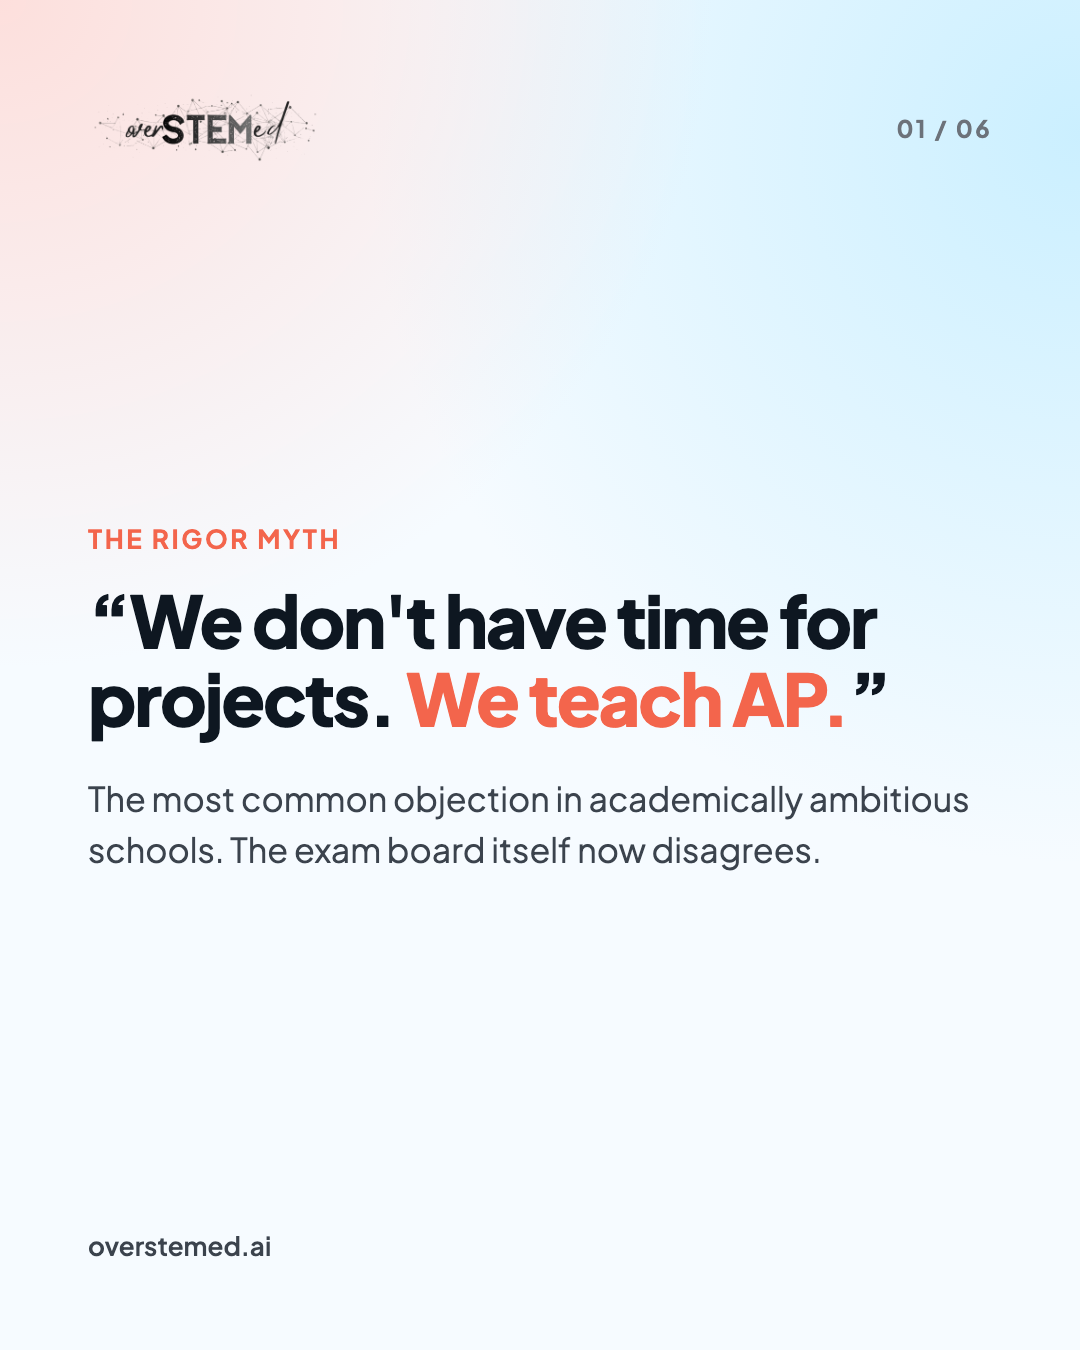
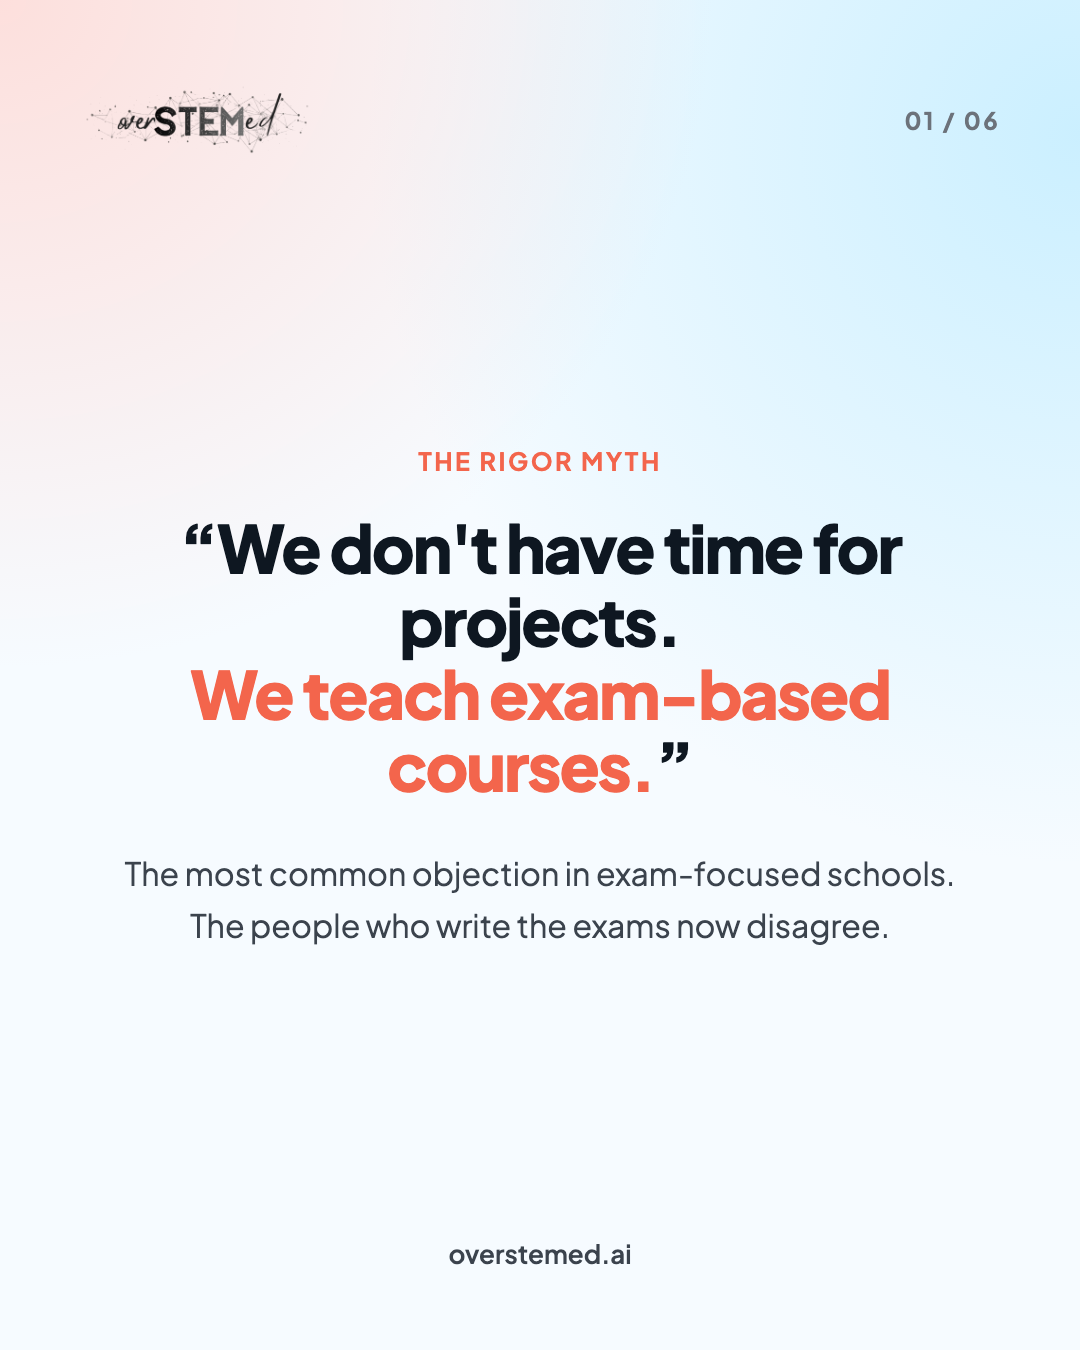
Rework PBL carousel per Michael's notes
Center-aligned and vertically centered, one sentence per line,
'exam-based courses' instead of AP in the opening quote so IB and
British schools see themselves, and Advanced Placement spelled out
before the abbreviation is used. Copy tightened so sentences do
not orphan single words.

diff --git a/post-templates.html b/post-templates.html
@@ -635,113 +635,115 @@ a{color:oklch(0.68 0.18 32);text-decoration:none;} a:hover{color:oklch(0.55 0.16
       </div>
     </div>
 
+
     <div class="tpl">
       <div class="tpl-label"><span>PBL rigor · Slide 01</span><button class="dl-btn" onclick="downloadCard(this)">PNG ↓</button></div>
       <div class="card" style="width:324px;height:405px;">
-        <div class="artboard" data-name="ig-pbl-01-1080x1350" style="width:1080px;height:1350px;transform:scale(0.3);transform-origin:top left;position:relative;overflow:hidden;background:radial-gradient(120% 90% at 0% 0%, oklch(0.92 0.06 25 / 0.75), transparent 55%),radial-gradient(110% 90% at 100% 10%, oklch(0.90 0.07 230 / 0.6), transparent 60%),oklch(0.985 0.008 250);display:flex;flex-direction:column;justify-content:space-between;padding:88px;box-sizing:border-box;">
+        <div class="artboard" data-name="ig-pbl-01-1080x1350" style="width:1080px;height:1350px;transform:scale(0.3);transform-origin:top left;position:relative;overflow:hidden;background:radial-gradient(120% 90% at 0% 0%, oklch(0.92 0.06 25 / 0.75), transparent 55%),radial-gradient(110% 90% at 100% 10%, oklch(0.90 0.07 230 / 0.6), transparent 60%),oklch(0.985 0.008 250);display:flex;flex-direction:column;padding:80px;box-sizing:border-box;">
           <div style="display:flex;align-items:center;justify-content:space-between;">
             <img src="over-logo-test.png" alt="overSTEMed" style="height:80px;width:auto;">
             <span style="font-size:24px;font-weight:700;letter-spacing:0.1em;color:oklch(0.55 0.015 255);">01 / 06</span>
           </div>
-          <div>
-            <div style="font-size:26px;font-weight:700;letter-spacing:0.1em;text-transform:uppercase;color:oklch(0.68 0.18 32);margin-bottom:26px;">The rigor myth</div>
-            <div style="font-weight:800;font-size:72px;line-height:1.08;letter-spacing:-0.03em;">&ldquo;We don't have time for projects. <em style="font-style:normal;color:oklch(0.68 0.18 32);">We teach AP.</em>&rdquo;</div>
-            <div style="margin-top:36px;font-size:34px;line-height:1.5;color:oklch(0.38 0.02 255);">The most common objection in academically ambitious schools. The exam board itself now disagrees.</div>
+          <div style="flex:1;display:flex;flex-direction:column;justify-content:center;align-items:center;text-align:center;">
+            <div style="font-size:25px;font-weight:700;letter-spacing:0.1em;text-transform:uppercase;color:oklch(0.68 0.18 32);margin-bottom:34px;">The rigor myth</div>
+            <div style="font-weight:800;font-size:66px;line-height:1.1;letter-spacing:-0.03em;max-width:900px;">&ldquo;We don't have time for projects.<br><em style="font-style:normal;color:oklch(0.68 0.18 32);">We teach exam-based courses.</em>&rdquo;</div>
+            <div style="margin-top:46px;font-size:32px;line-height:1.62;color:oklch(0.38 0.02 255);max-width:900px;">The most common objection in exam-focused schools.<br>The people who write the exams now disagree.</div>
             
           </div>
-          <div style="font-size:26px;font-weight:600;color:oklch(0.38 0.02 255);">overstemed.ai</div>
+          <div style="text-align:center;font-size:26px;font-weight:600;color:oklch(0.38 0.02 255);">overstemed.ai</div>
         </div>
       </div>
     </div>
     <div class="tpl">
       <div class="tpl-label"><span>PBL rigor · Slide 02</span><button class="dl-btn" onclick="downloadCard(this)">PNG ↓</button></div>
       <div class="card" style="width:324px;height:405px;">
-        <div class="artboard" data-name="ig-pbl-02-1080x1350" style="width:1080px;height:1350px;transform:scale(0.3);transform-origin:top left;position:relative;overflow:hidden;background:radial-gradient(120% 90% at 100% 0%, oklch(0.90 0.07 230 / 0.6), transparent 55%),radial-gradient(100% 80% at 0% 100%, oklch(0.92 0.06 25 / 0.6), transparent 60%),oklch(0.985 0.008 250);display:flex;flex-direction:column;justify-content:space-between;padding:88px;box-sizing:border-box;">
+        <div class="artboard" data-name="ig-pbl-02-1080x1350" style="width:1080px;height:1350px;transform:scale(0.3);transform-origin:top left;position:relative;overflow:hidden;background:radial-gradient(120% 90% at 100% 0%, oklch(0.90 0.07 230 / 0.6), transparent 55%),radial-gradient(100% 80% at 0% 100%, oklch(0.92 0.06 25 / 0.6), transparent 60%),oklch(0.985 0.008 250);display:flex;flex-direction:column;padding:80px;box-sizing:border-box;">
           <div style="display:flex;align-items:center;justify-content:space-between;">
             <img src="over-logo-test.png" alt="overSTEMed" style="height:80px;width:auto;">
             <span style="font-size:24px;font-weight:700;letter-spacing:0.1em;color:oklch(0.55 0.015 255);">02 / 06</span>
           </div>
-          <div>
-            <div style="font-size:26px;font-weight:700;letter-spacing:0.1em;text-transform:uppercase;color:oklch(0.68 0.18 32);margin-bottom:26px;">The research</div>
-            <div style="font-weight:800;font-size:72px;line-height:1.08;letter-spacing:-0.03em;">Equal or <em style="font-style:normal;color:oklch(0.68 0.18 32);">better.</em></div>
-            <div style="margin-top:36px;font-size:34px;line-height:1.5;color:oklch(0.38 0.02 255);">Students in rigorous project-based AP classrooms performed as well as or better than their peers on the AP exam.</div>
-            <div style="margin-top:28px;font-size:26px;line-height:1.5;color:oklch(0.55 0.015 255);">Saavedra et al., 2022 · Lucas Education Research</div>
+          <div style="flex:1;display:flex;flex-direction:column;justify-content:center;align-items:center;text-align:center;">
+            <div style="font-size:25px;font-weight:700;letter-spacing:0.1em;text-transform:uppercase;color:oklch(0.68 0.18 32);margin-bottom:34px;">The research</div>
+            <div style="font-weight:800;font-size:92px;line-height:1.1;letter-spacing:-0.03em;max-width:900px;">Equal or <em style="font-style:normal;color:oklch(0.68 0.18 32);">better.</em></div>
+            <div style="margin-top:46px;font-size:32px;line-height:1.62;color:oklch(0.38 0.02 255);max-width:900px;">Students in rigorous project-based classrooms matched or beat their peers on the Advanced Placement exam.</div>
+            <div style="margin-top:32px;font-size:25px;line-height:1.5;color:oklch(0.55 0.015 255);">Saavedra et al., 2022 &middot; Lucas Education Research</div>
           </div>
-          <div style="font-size:26px;font-weight:600;color:oklch(0.38 0.02 255);">overstemed.ai</div>
+          <div style="text-align:center;font-size:26px;font-weight:600;color:oklch(0.38 0.02 255);">overstemed.ai</div>
         </div>
       </div>
     </div>
     <div class="tpl">
       <div class="tpl-label"><span>PBL rigor · Slide 03</span><button class="dl-btn" onclick="downloadCard(this)">PNG ↓</button></div>
       <div class="card" style="width:324px;height:405px;">
-        <div class="artboard" data-name="ig-pbl-03-1080x1350" style="width:1080px;height:1350px;transform:scale(0.3);transform-origin:top left;position:relative;overflow:hidden;background:radial-gradient(120% 90% at 0% 0%, oklch(0.92 0.06 25 / 0.7), transparent 55%),radial-gradient(100% 80% at 100% 100%, oklch(0.92 0.06 320 / 0.5), transparent 60%),oklch(0.985 0.008 250);display:flex;flex-direction:column;justify-content:space-between;padding:88px;box-sizing:border-box;">
+        <div class="artboard" data-name="ig-pbl-03-1080x1350" style="width:1080px;height:1350px;transform:scale(0.3);transform-origin:top left;position:relative;overflow:hidden;background:radial-gradient(120% 90% at 0% 0%, oklch(0.92 0.06 25 / 0.7), transparent 55%),radial-gradient(100% 80% at 100% 100%, oklch(0.92 0.06 320 / 0.5), transparent 60%),oklch(0.985 0.008 250);display:flex;flex-direction:column;padding:80px;box-sizing:border-box;">
           <div style="display:flex;align-items:center;justify-content:space-between;">
             <img src="over-logo-test.png" alt="overSTEMed" style="height:80px;width:auto;">
             <span style="font-size:24px;font-weight:700;letter-spacing:0.1em;color:oklch(0.55 0.015 255);">03 / 06</span>
           </div>
-          <div>
-            <div style="font-size:26px;font-weight:700;letter-spacing:0.1em;text-transform:uppercase;color:oklch(0.68 0.18 32);margin-bottom:26px;">The exam board is acting</div>
-            <div style="font-weight:800;font-size:72px;line-height:1.08;letter-spacing:-0.03em;">AP is <em style="font-style:normal;color:oklch(0.68 0.18 32);">building it in.</em></div>
-            <div style="margin-top:36px;font-size:34px;line-height:1.5;color:oklch(0.38 0.02 255);">Project-based models in six AP courses. Official project-based learning institutes for AP teachers. A fully project-based AP course arriving in 2026-27.</div>
+          <div style="flex:1;display:flex;flex-direction:column;justify-content:center;align-items:center;text-align:center;">
+            <div style="font-size:25px;font-weight:700;letter-spacing:0.1em;text-transform:uppercase;color:oklch(0.68 0.18 32);margin-bottom:34px;">The College Board is acting</div>
+            <div style="font-weight:800;font-size:66px;line-height:1.1;letter-spacing:-0.03em;max-width:900px;">Advanced Placement is <em style="font-style:normal;color:oklch(0.68 0.18 32);">building it in.</em></div>
+            <div style="margin-top:46px;font-size:32px;line-height:1.62;color:oklch(0.38 0.02 255);max-width:900px;">Project-based models in six AP courses.<br>Official training institutes for AP teachers.<br>A fully project-based AP course arrives in 2026-27.</div>
             
           </div>
-          <div style="font-size:26px;font-weight:600;color:oklch(0.38 0.02 255);">overstemed.ai</div>
+          <div style="text-align:center;font-size:26px;font-weight:600;color:oklch(0.38 0.02 255);">overstemed.ai</div>
         </div>
       </div>
     </div>
     <div class="tpl">
       <div class="tpl-label"><span>PBL rigor · Slide 04</span><button class="dl-btn" onclick="downloadCard(this)">PNG ↓</button></div>
       <div class="card" style="width:324px;height:405px;">
-        <div class="artboard" data-name="ig-pbl-04-1080x1350" style="width:1080px;height:1350px;transform:scale(0.3);transform-origin:top left;position:relative;overflow:hidden;background:radial-gradient(120% 90% at 100% 0%, oklch(0.90 0.07 230 / 0.6), transparent 55%),radial-gradient(100% 80% at 0% 100%, oklch(0.92 0.06 25 / 0.6), transparent 60%),oklch(0.985 0.008 250);display:flex;flex-direction:column;justify-content:space-between;padding:88px;box-sizing:border-box;">
+        <div class="artboard" data-name="ig-pbl-04-1080x1350" style="width:1080px;height:1350px;transform:scale(0.3);transform-origin:top left;position:relative;overflow:hidden;background:radial-gradient(120% 90% at 100% 0%, oklch(0.90 0.07 230 / 0.6), transparent 55%),radial-gradient(100% 80% at 0% 100%, oklch(0.92 0.06 25 / 0.6), transparent 60%),oklch(0.985 0.008 250);display:flex;flex-direction:column;padding:80px;box-sizing:border-box;">
           <div style="display:flex;align-items:center;justify-content:space-between;">
             <img src="over-logo-test.png" alt="overSTEMed" style="height:80px;width:auto;">
             <span style="font-size:24px;font-weight:700;letter-spacing:0.1em;color:oklch(0.55 0.015 255);">04 / 06</span>
           </div>
-          <div>
-            <div style="font-size:26px;font-weight:700;letter-spacing:0.1em;text-transform:uppercase;color:oklch(0.68 0.18 32);margin-bottom:26px;">And the IB</div>
-            <div style="font-weight:800;font-size:72px;line-height:1.08;letter-spacing:-0.03em;">Inquiry was <em style="font-style:normal;color:oklch(0.68 0.18 32);">always the point.</em></div>
-            <div style="margin-top:36px;font-size:34px;line-height:1.5;color:oklch(0.38 0.02 255);">Interdisciplinary units are required in the MYP. Open-book exams have been piloted. The Systems Transformation Pathway puts real-world projects at the heart of the work.</div>
+          <div style="flex:1;display:flex;flex-direction:column;justify-content:center;align-items:center;text-align:center;">
+            <div style="font-size:25px;font-weight:700;letter-spacing:0.1em;text-transform:uppercase;color:oklch(0.68 0.18 32);margin-bottom:34px;">And the IB</div>
+            <div style="font-weight:800;font-size:70px;line-height:1.1;letter-spacing:-0.03em;max-width:900px;">Inquiry was <em style="font-style:normal;color:oklch(0.68 0.18 32);">always the point.</em></div>
+            <div style="margin-top:46px;font-size:32px;line-height:1.62;color:oklch(0.38 0.02 255);max-width:900px;">Interdisciplinary units are required in the MYP.<br>Open-book exams have been piloted.<br>The new Systems Transformation Pathway is built on real projects.</div>
             
           </div>
-          <div style="font-size:26px;font-weight:600;color:oklch(0.38 0.02 255);">overstemed.ai</div>
+          <div style="text-align:center;font-size:26px;font-weight:600;color:oklch(0.38 0.02 255);">overstemed.ai</div>
         </div>
       </div>
     </div>
     <div class="tpl">
       <div class="tpl-label"><span>PBL rigor · Slide 05</span><button class="dl-btn" onclick="downloadCard(this)">PNG ↓</button></div>
       <div class="card" style="width:324px;height:405px;">
-        <div class="artboard" data-name="ig-pbl-05-1080x1350" style="width:1080px;height:1350px;transform:scale(0.3);transform-origin:top left;position:relative;overflow:hidden;background:radial-gradient(120% 90% at 0% 0%, oklch(0.92 0.06 25 / 0.75), transparent 55%),radial-gradient(110% 90% at 100% 10%, oklch(0.90 0.07 230 / 0.6), transparent 60%),oklch(0.985 0.008 250);display:flex;flex-direction:column;justify-content:space-between;padding:88px;box-sizing:border-box;">
+        <div class="artboard" data-name="ig-pbl-05-1080x1350" style="width:1080px;height:1350px;transform:scale(0.3);transform-origin:top left;position:relative;overflow:hidden;background:radial-gradient(120% 90% at 0% 0%, oklch(0.92 0.06 25 / 0.75), transparent 55%),radial-gradient(110% 90% at 100% 10%, oklch(0.90 0.07 230 / 0.6), transparent 60%),oklch(0.985 0.008 250);display:flex;flex-direction:column;padding:80px;box-sizing:border-box;">
           <div style="display:flex;align-items:center;justify-content:space-between;">
             <img src="over-logo-test.png" alt="overSTEMed" style="height:80px;width:auto;">
             <span style="font-size:24px;font-weight:700;letter-spacing:0.1em;color:oklch(0.55 0.015 255);">05 / 06</span>
           </div>
-          <div>
-            <div style="font-size:26px;font-weight:700;letter-spacing:0.1em;text-transform:uppercase;color:oklch(0.68 0.18 32);margin-bottom:26px;">The shift in one line</div>
-            <div style="font-weight:800;font-size:72px;line-height:1.08;letter-spacing:-0.03em;">Not added <em style="font-style:normal;color:oklch(0.68 0.18 32);">after.</em></div>
-            <div style="margin-top:36px;font-size:34px;line-height:1.5;color:oklch(0.38 0.02 255);">Projects are not something a school bolts on once the content is covered. They are how students learn the content in the first place.</div>
+          <div style="flex:1;display:flex;flex-direction:column;justify-content:center;align-items:center;text-align:center;">
+            <div style="font-size:25px;font-weight:700;letter-spacing:0.1em;text-transform:uppercase;color:oklch(0.68 0.18 32);margin-bottom:34px;">The shift in one line</div>
+            <div style="font-weight:800;font-size:92px;line-height:1.1;letter-spacing:-0.03em;max-width:900px;">Not added <em style="font-style:normal;color:oklch(0.68 0.18 32);">after.</em></div>
+            <div style="margin-top:46px;font-size:32px;line-height:1.62;color:oklch(0.38 0.02 255);max-width:900px;">Projects are not something a school bolts on once the content is covered.<br>They are how students learn the content.</div>
             
           </div>
-          <div style="font-size:26px;font-weight:600;color:oklch(0.38 0.02 255);">overstemed.ai</div>
+          <div style="text-align:center;font-size:26px;font-weight:600;color:oklch(0.38 0.02 255);">overstemed.ai</div>
         </div>
       </div>
     </div>
     <div class="tpl">
       <div class="tpl-label"><span>PBL rigor · Slide 06</span><button class="dl-btn" onclick="downloadCard(this)">PNG ↓</button></div>
       <div class="card" style="width:324px;height:405px;">
-        <div class="artboard" data-name="ig-pbl-06-1080x1350" style="width:1080px;height:1350px;transform:scale(0.3);transform-origin:top left;position:relative;overflow:hidden;background:radial-gradient(120% 180% at 85% -20%, oklch(0.45 0.10 32 / 0.35), transparent 55%),linear-gradient(135deg, oklch(0.27 0.03 255), oklch(0.18 0.025 255));color:oklch(0.97 0.008 90);display:flex;flex-direction:column;justify-content:space-between;padding:88px;box-sizing:border-box;">
+        <div class="artboard" data-name="ig-pbl-06-1080x1350" style="width:1080px;height:1350px;transform:scale(0.3);transform-origin:top left;position:relative;overflow:hidden;background:radial-gradient(120% 180% at 85% -20%, oklch(0.45 0.10 32 / 0.35), transparent 55%),linear-gradient(135deg, oklch(0.27 0.03 255), oklch(0.18 0.025 255));color:oklch(0.97 0.008 90);display:flex;flex-direction:column;padding:80px;box-sizing:border-box;">
           <div style="display:flex;align-items:center;justify-content:space-between;">
             <img src="over-logo-test.png" alt="overSTEMed" style="height:80px;width:auto;filter:invert(1) brightness(1.8);">
             <span style="font-size:24px;font-weight:700;letter-spacing:0.1em;color:oklch(0.80 0.10 32);">06 / 06</span>
           </div>
-          <div>
-            <div style="font-weight:800;font-size:80px;line-height:1.08;letter-spacing:-0.03em;">Rigor and making were <em style="font-style:normal;color:oklch(0.78 0.14 32);">never opposites.</em></div>
-            <div style="margin-top:36px;font-size:34px;line-height:1.55;color:oklch(0.86 0.01 90);">overSTEMed helps international schools build project-based STEM and AI literacy into the courses they already teach. Proven in a working classroom first.</div>
+          <div style="flex:1;display:flex;flex-direction:column;justify-content:center;align-items:center;text-align:center;">
+            <div style="font-size:25px;font-weight:700;letter-spacing:0.1em;text-transform:uppercase;color:oklch(0.80 0.10 32);margin-bottom:34px;">overSTEMed</div>
+            <div style="font-weight:800;font-size:70px;line-height:1.1;letter-spacing:-0.03em;max-width:900px;">Rigor and making were <em style="font-style:normal;color:oklch(0.78 0.14 32);">never opposites.</em></div>
+            <div style="margin-top:46px;font-size:32px;line-height:1.62;color:oklch(0.86 0.01 90);max-width:900px;">overSTEMed builds project-based STEM and AI literacy into the courses schools already teach.<br>Proven in a working classroom first.</div>
+            
           </div>
-          <div style="font-size:26px;font-weight:600;color:oklch(0.80 0.10 32);">overstemed.ai · DMs are open</div>
+          <div style="text-align:center;font-size:26px;font-weight:600;color:oklch(0.80 0.10 32);">overstemed.ai &middot; DMs are open</div>
         </div>
       </div>
     </div>
-
     <!-- LinkedIn company page banner -->
     <div class="tpl">
       <div class="tpl-label"><span>LinkedIn banner 1128×191</span><button class="dl-btn" onclick="downloadCard(this)">PNG ↓</button></div>
